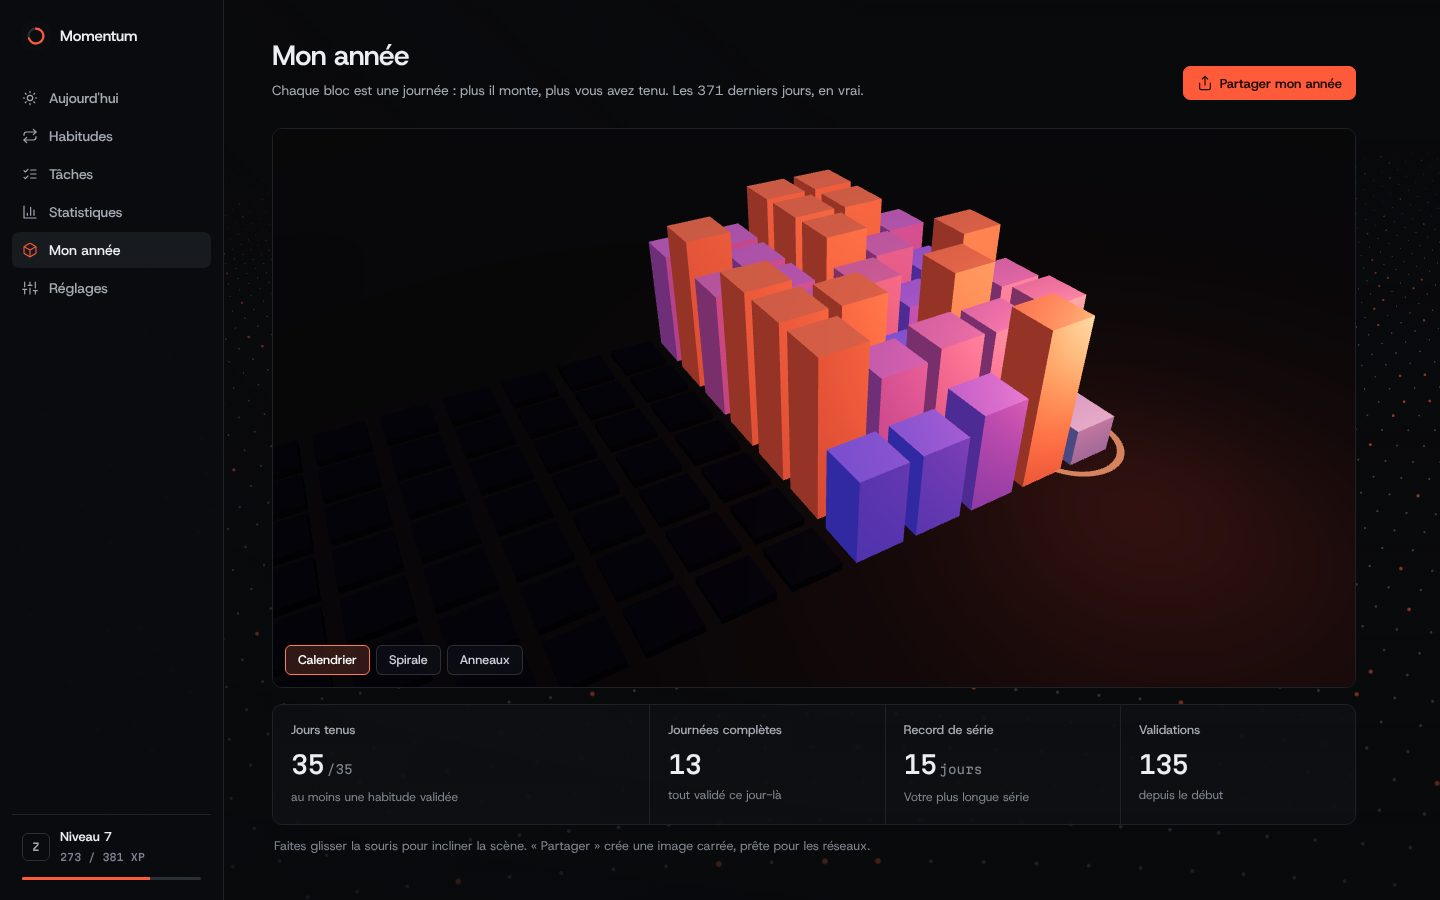
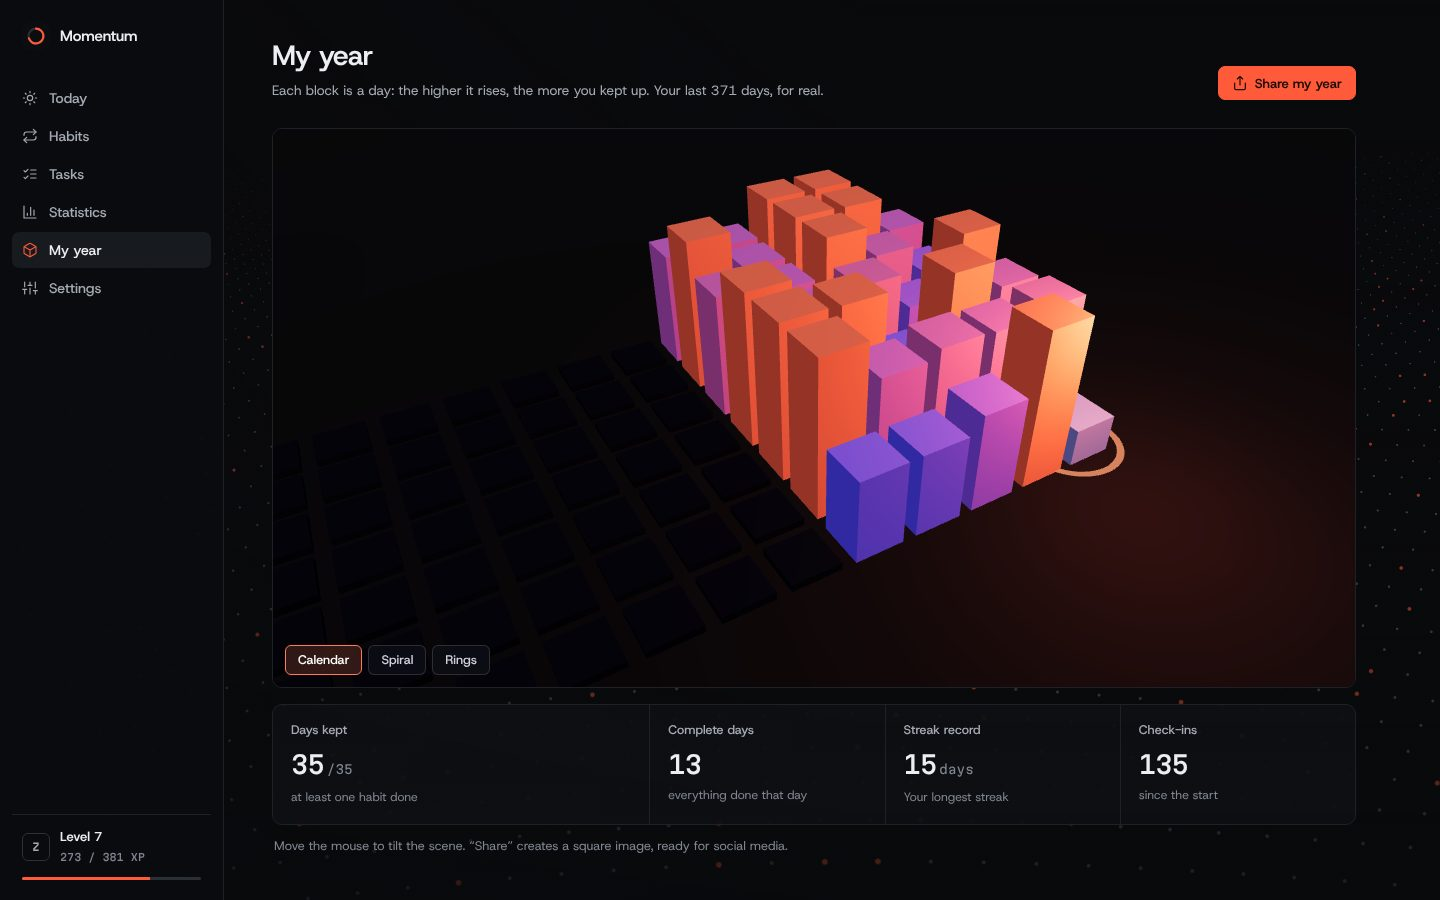
English as the app's default language (French and Spanish selectable in settings), English metadata and screenshots
Claude-Session: https://claude.ai/code/session_01NQBmbFSehdEYkxKMH4r4f2

diff --git a/app.html b/app.html
@@ -1,10 +1,10 @@
 <!doctype html>
-<html lang="fr">
+<html lang="en">
 <head>
   <meta charset="utf-8">
   <meta name="viewport" content="width=device-width, initial-scale=1, viewport-fit=cover">
-  <title>Momentum · Habitudes & tâches</title>
-  <meta name="description" content="Momentum : suivez vos habitudes, organisez vos tâches et visualisez vos progrès.">
+  <title>Momentum · Habits & tasks</title>
+  <meta name="description" content="Momentum: track your habits, organise your tasks and see your progress.">
   <meta name="theme-color" content="#090a0c">
   <meta name="color-scheme" content="dark light">
   <meta name="mobile-web-app-capable" content="yes">
@@ -31,20 +31,20 @@
   <div class="bg-veil" aria-hidden="true"></div>
 
   <aside class="sidebar">
-    <a class="brand" href="#/today" aria-label="Momentum, accueil">
+    <a class="brand" href="#/today" aria-label="Momentum, home">
       <img src="assets/favicon.svg" alt="" width="28" height="28">
       <span>Momentum</span>
     </a>
-    <nav class="nav" id="nav" aria-label="Navigation principale"></nav>
+    <nav class="nav" id="nav" aria-label="Main navigation"></nav>
     <div class="level card" id="level"></div>
   </aside>
 
   <main id="view" class="view" tabindex="-1">
-    <noscript><p>Momentum a besoin de JavaScript pour fonctionner.</p></noscript>
+    <noscript><p>Momentum needs JavaScript to run.</p></noscript>
   </main>
 
-  <dialog id="modal" class="modal" aria-label="Formulaire"></dialog>
-  <dialog id="palette" class="palette" aria-label="Palette de commandes"></dialog>
+  <dialog id="modal" class="modal" aria-label="Form"></dialog>
+  <dialog id="palette" class="palette" aria-label="Command palette"></dialog>
   <div id="toasts" class="toasts" aria-live="polite"></div>
 </body>
 </html>

diff --git a/js/i18n.js b/js/i18n.js
@@ -2,25 +2,25 @@
 // t('clé', { n: 3 }) remplace {n}. tn(n, 'clé') choisit clé_one / clé_other.
 
 export const LANGS = [
+  { id: 'en', label: 'English', locale: 'en-GB' },
   { id: 'fr', label: 'Français', locale: 'fr-FR' },
   { id: 'es', label: 'Español', locale: 'es-ES' },
-  { id: 'en', label: 'English', locale: 'en-GB' },
 ];
 
 const DICT = { fr: {}, es: {}, en: {} };
-let current = 'fr';
+let current = 'en';
 const listeners = new Set();
 
+/** Langue par défaut : anglais. Changeable à tout moment dans les réglages (le choix est conservé). */
 export function detectLang() {
-  const nav = (navigator.language || 'fr').slice(0, 2).toLowerCase();
-  return LANGS.some((l) => l.id === nav) ? nav : 'fr';
+  return 'en';
 }
 
 export const lang = () => current;
-export const locale = () => LANGS.find((l) => l.id === current)?.locale || 'fr-FR';
+export const locale = () => LANGS.find((l) => l.id === current)?.locale || 'en-GB';
 
 export function setLang(id) {
-  if (!DICT[id]) id = 'fr';
+  if (!DICT[id]) id = 'en';
   if (id === current) return;
   current = id;
   document.documentElement.lang = id;
@@ -33,7 +33,7 @@ export function onLangChange(fn) {
 }
 
 export function t(key, vars) {
-  let s = DICT[current][key] ?? DICT.fr[key];
+  let s = DICT[current][key] ?? DICT.en[key] ?? DICT.fr[key];
   if (s === undefined) {
     console.warn('Traduction manquante :', key);
     s = key;

diff --git a/sw.js b/sw.js
@@ -1,7 +1,7 @@
 // Service worker Momentum : l'application fonctionne hors ligne.
 // Stratégie : réseau d'abord (toujours la dernière version quand on est connecté),
 // cache en secours (hors ligne). Les pages et fichiers de l'app sont pré-chargés.
-const VERSION = 'momentum-v4';
+const VERSION = 'momentum-v5';
 const SHELL = [
   './',
   './index.html',

diff --git a/PRODUCT.md b/PRODUCT.md
@@ -32,7 +32,7 @@ Used in short sessions: morning or evening check-ins on the phone, weekly planni
 - Platform: PWA (manifest, service worker, offline, install prompt, update toast), notifications via service worker, dark / light / auto theme.
 - Comfort: command palette (Ctrl+K), keyboard shortcuts, undo after delete/archive/pause/skip, reduced-motion support.
 - Stack: vanilla HTML/CSS/JS ES modules, no build step, Three.js vendored, localStorage, deployed on GitHub Pages via Actions.
-- Interface languages: French (default), Spanish, English (auto-detected, switchable in settings).
+- Interface languages: English (default), French, Spanish (switchable in settings, persisted).
 - Routes: `index.html` is the landing page (3D year of habits, live demo, app screenshots); `app.html` is the application.
 
 ## Brand Commitments

diff --git a/README.fr.md b/README.fr.md
@@ -17,7 +17,7 @@
 ### 📱 Application installable, hors ligne
 - **PWA** : installation sur l'écran d'accueil (Android, iOS, ordinateur), plein écran, raccourcis vers chaque page.
 - **Mode hors ligne** complet grâce à un service worker (réseau d'abord, cache en secours) ; mise à jour proposée quand une nouvelle version est publiée.
-- **Thème sombre, clair ou automatique**, et interface en **français, español ou English**.
+- **Thème sombre, clair ou automatique**, et interface en **anglais par défaut, français ou español** (changeable dans les réglages, choix conservé).
 
 ### 🔁 Habitudes
 - **Trois types de suivi** : fait / pas fait, **objectif chiffré** (8 verres d'eau, 20 pages…) ou **mauvaise habitude à arrêter** (compteur de « jours sans »).

diff --git a/README.md b/README.md
@@ -19,7 +19,7 @@
 ### 📱 Installable, offline
 - **PWA**: install on the home screen (Android, iOS, desktop), full screen, shortcuts to each page.
 - Full **offline mode** through a service worker (network first, cache fallback); an update prompt appears when a new version is published.
-- **Dark, light or automatic theme**, interface in **English, Spanish or French**.
+- **Dark, light or automatic theme**, interface in **English by default, Spanish or French** (switchable in Settings, choice remembered).
 
 ### 🔁 Habits
 - **Three tracking types**: done / not done, **numeric goal** (8 glasses of water, 20 pages…) or **bad habit to quit** ("days without" counter).
